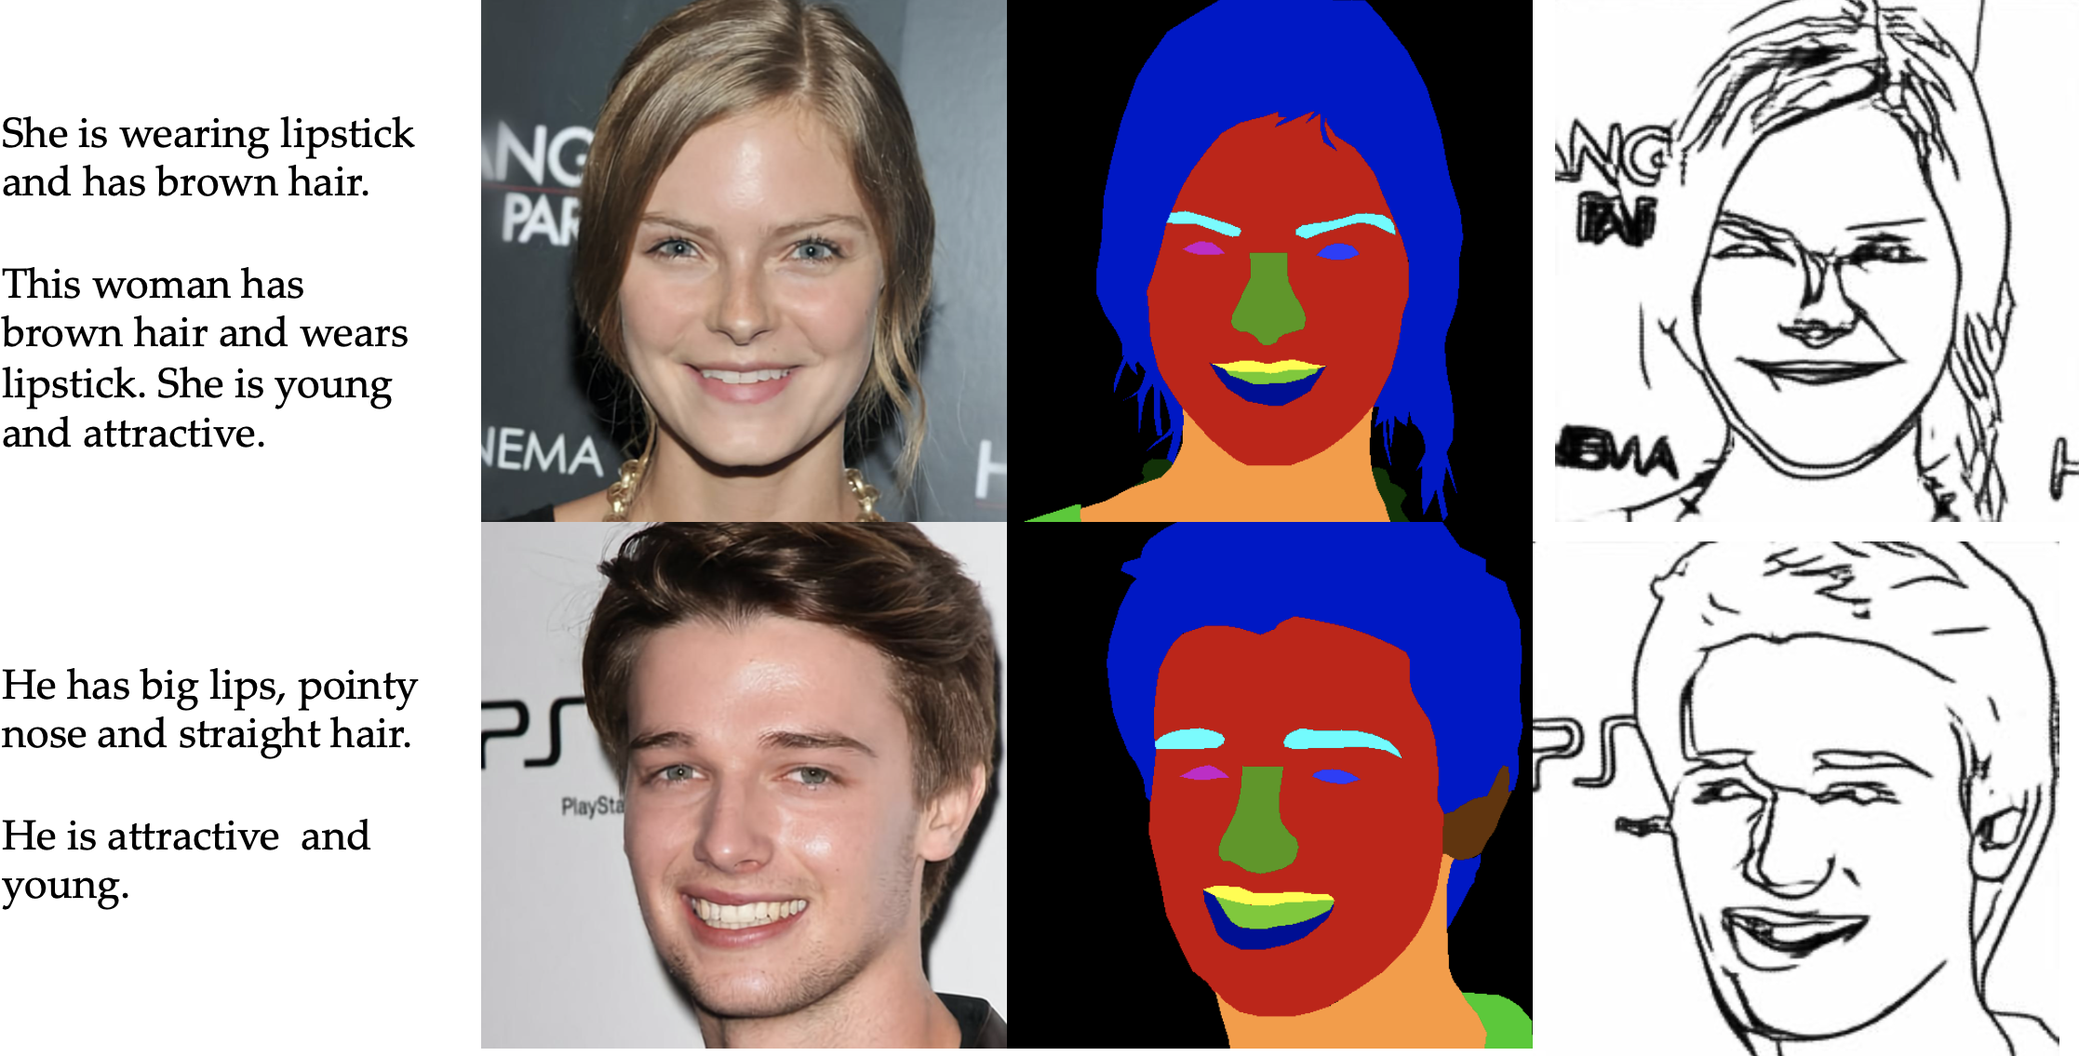
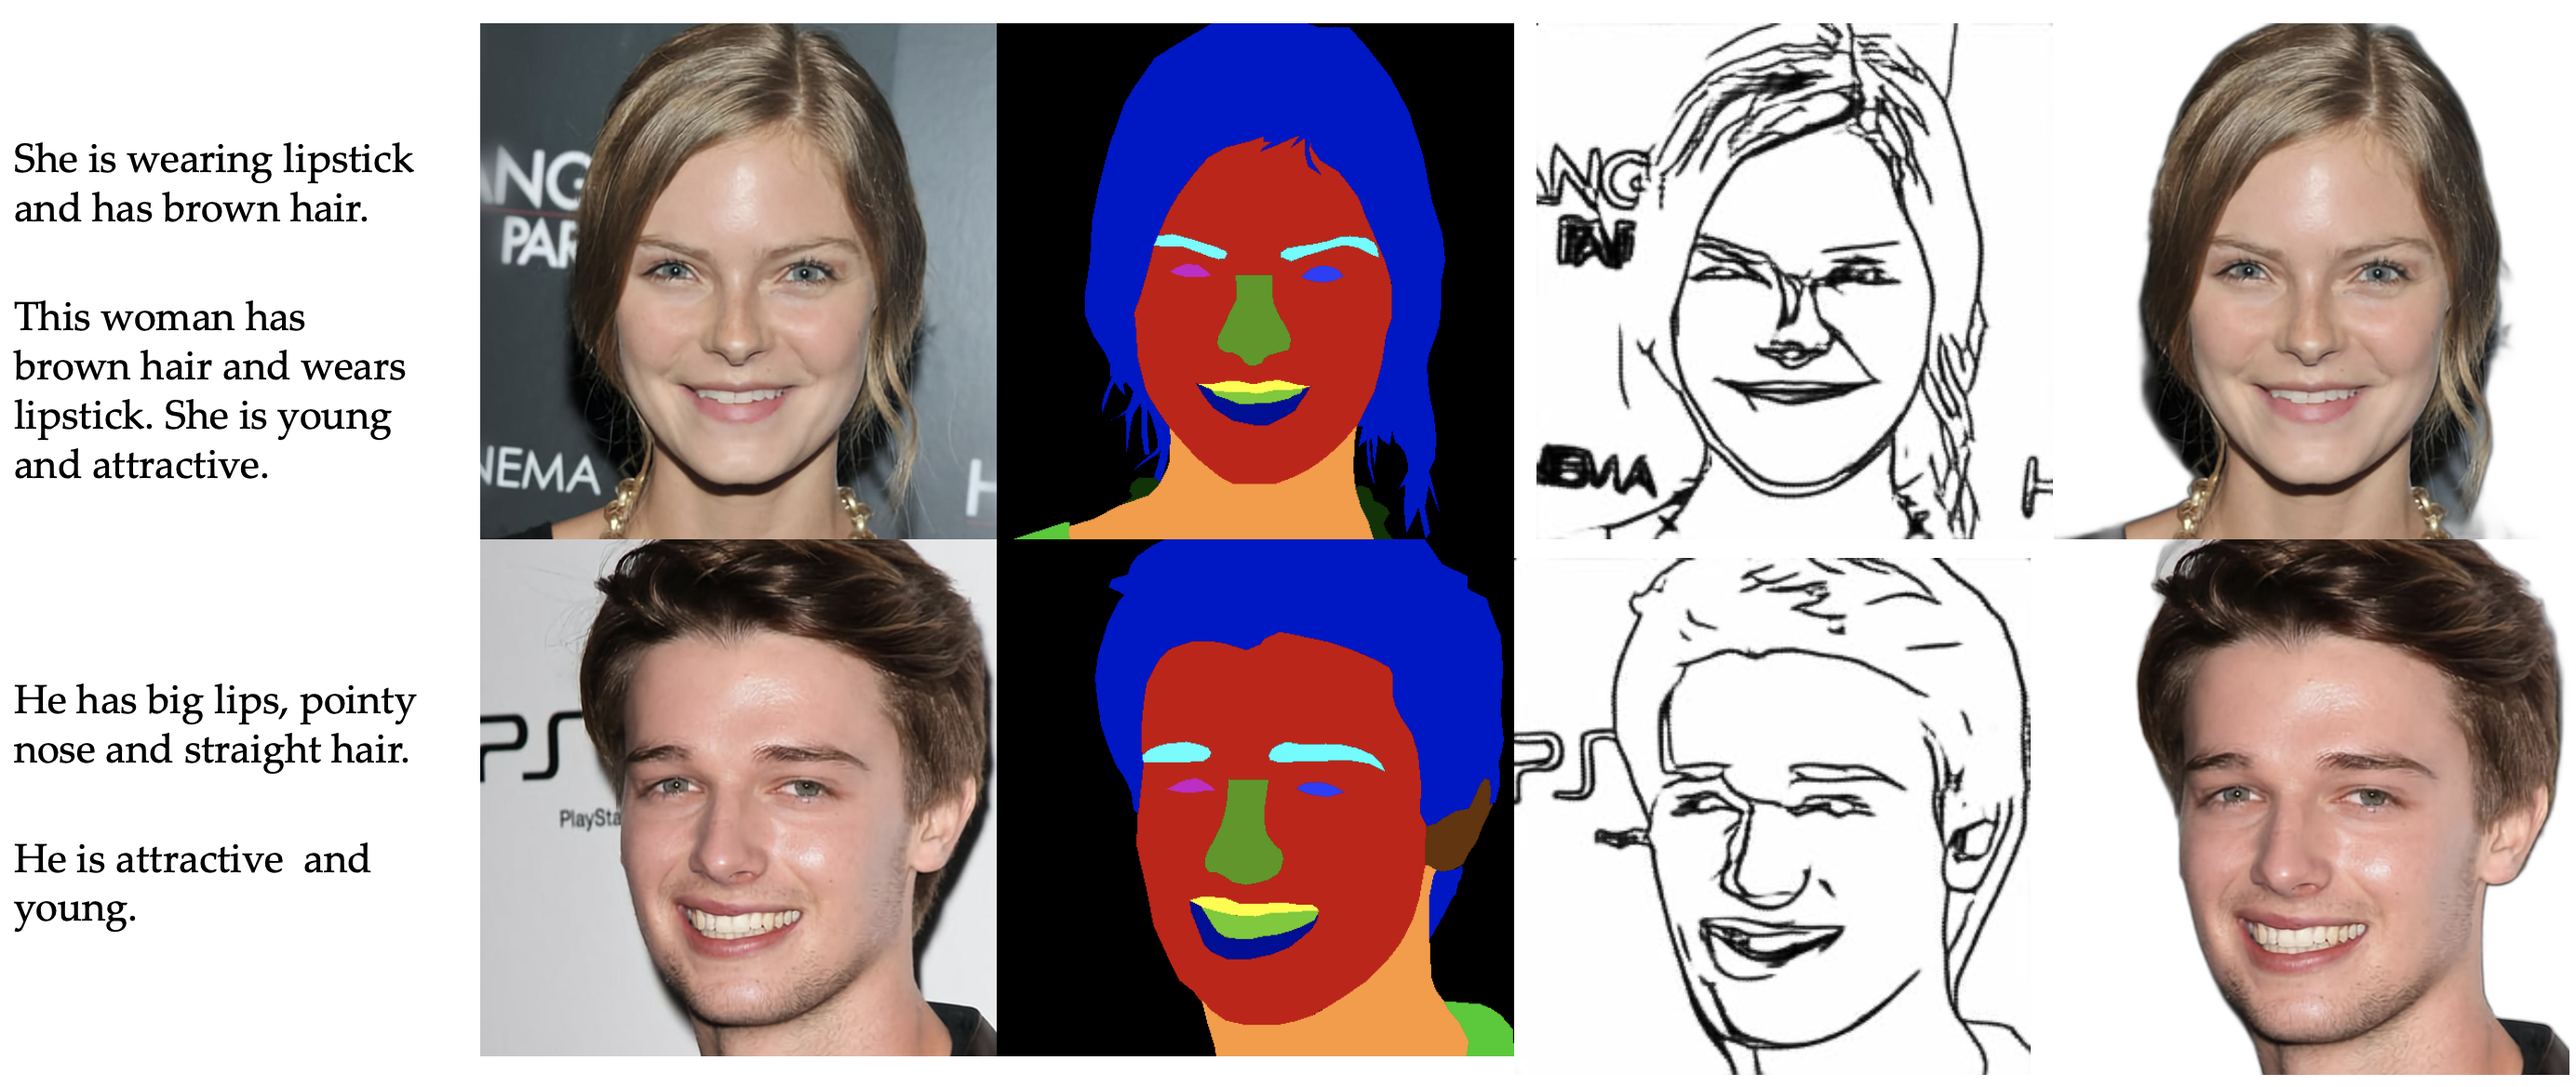
add image samples with transparent background

diff --git a/README.md b/README.md
@@ -10,10 +10,10 @@ Multi-Modal-CelebA-HQ can be used to **train and evaluate algorithms of text-to-
 
 ## Data Generation
 
-* The textual descriptions are generated using probabilistic context-free grammar (PCFG) based on the given attributes. We create ten unique single sentence descriptions per image to obtain more training data following the format of the popular [CUB](http://www.vision.caltech.edu/visipedia/CUB-200-2011.html) dataset and [COCO](http://cocodataset.org/#download) dataset.  The previous study proposed [CelebTD-HQ](https://arxiv.org/abs/2005.04909), but it is not publicly available.
+* The textual descriptions are generated using probabilistic context-free grammar (PCFG) based on the given attributes. We create ten unique single sentence descriptions per image to obtain more training data following the format of the popular [CUB](http://www.vision.caltech.edu/visipedia/CUB-200-2011.html) dataset and [COCO](http://cocodataset.org/#download) dataset. The previous study proposed [CelebTD-HQ](https://arxiv.org/abs/2005.04909), but it is not publicly available.
 * For label, we use CelebAMask-HQ dataset, which contains manually-annotated semantic mask of facial attributes corresponding to CelebA-HQ. 
 * For sketches, we follow the same data generation pipeline as in [DeepFaceDrawing](http://www.geometrylearning.com/DeepFaceDrawing/). We first apply Photocopy filter in Photoshop to extract edges, which preserves facial details and introduces excessive noise, then apply the [sketch-simplification](https://github.com/bobbens/sketch_simplification) to get edge maps resembling hand-drawn sketches.
-* For background removing, we use an open-source tool [Rembg](https://github.com/danielgatis/rembg) and a commercial software [removebg](https://www.remove.bg/).
+* For background removing, we use an open-source tool [Rembg](https://github.com/danielgatis/rembg) and a commercial software [removebg](https://www.remove.bg/). Different backgrounds can be further added using image composition or harmonization methods like and [DoveNet](https://github.com/bcmi/Image_Harmonization_Datasets)
 
 ## Sample Data
 ![image](https://github.com/weihaox/Multi-Modal-CelebA-HQ/blob/main/images/sample.png)
